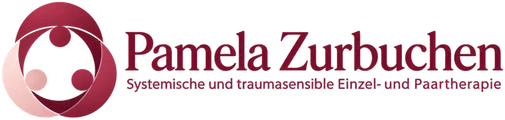
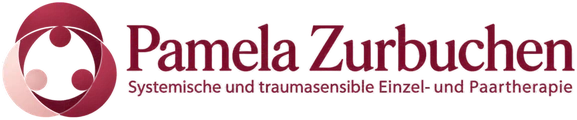
Wortmarke: Zeichen etwas kleiner, passend zur Schrifthöhe
Claude-Session: https://claude.ai/code/session_01TmkWojVVLHKuij4mQYEDNM

Changed region(s): [[0.0, 0.0, 1.0, 1.0], [0.0, 0.85, 0.0297, 0.875]]

diff --git a/public/datenschutz/index.html b/public/datenschutz/index.html
@@ -38,7 +38,7 @@
 <body>
 <a class="skip" href="#inhalt">Zum Inhalt springen</a>
 <header class="top"><div class="wrap top-row">
-  <a class="brand" href="/" aria-label="Pamela Zurbuchen, Startseite"><img class="brand-word" src="/img/wortmarke-120.webp?v=4" srcset="/img/wortmarke-120.webp?v=4 1x, /img/wortmarke-240.webp?v=4 2x" width="505" height="120" alt=""><img class="brand-mark" src="/img/logo-96.webp?v=3" width="96" height="96" alt=""><span class="brand-text"><b>Pamela Zurbuchen</b><small>Systemische und traumasensible Einzel- und Paartherapie</small></span></a>
+  <a class="brand" href="/" aria-label="Pamela Zurbuchen, Startseite"><img class="brand-word" src="/img/wortmarke-120.webp?v=5" srcset="/img/wortmarke-120.webp?v=5 1x, /img/wortmarke-240.webp?v=5 2x" width="577" height="120" alt=""><img class="brand-mark" src="/img/logo-96.webp?v=3" width="96" height="96" alt=""><span class="brand-text"><b>Pamela Zurbuchen</b><small>Systemische und traumasensible Einzel- und Paartherapie</small></span></a>
   <nav class="nav" aria-label="Hauptnavigation"><a href="/angebot/">Angebot</a><a href="/ueber-mich/">Über mich</a><a href="/kurse/">Kurse</a><a href="/preise/">Preise</a><a href="/blog/">Blog</a><a href="/kontakt/">Kontakt</a></nav>
   <a class="btn primary sm" href="/termin/">Termin anfragen</a>
   <a class="flow-close" href="/" aria-label="Anfrage schließen und zur Startseite"><svg viewBox="0 0 20 20" aria-hidden="true"><path d="M5 5l10 10M15 5L5 15"/></svg></a>
@@ -73,7 +73,7 @@
 <p class="rv">Sie haben das Recht auf Auskunft, Berichtigung, Löschung, Einschränkung der Verarbeitung, Datenübertragbarkeit und Widerspruch sowie das Recht, sich bei einer Datenschutz-Aufsichtsbehörde zu beschweren.</p></div></div></section>
 </main>
 <footer class="foot"><div class="wrap">
-  <a class="brand" href="/" aria-label="Pamela Zurbuchen, Startseite"><img class="brand-word" src="/img/wortmarke-120.webp?v=4" srcset="/img/wortmarke-120.webp?v=4 1x, /img/wortmarke-240.webp?v=4 2x" width="505" height="120" alt=""><img class="brand-mark" src="/img/logo-96.webp?v=3" width="96" height="96" alt=""><span class="brand-text"><b>Pamela Zurbuchen</b><small>Systemische und traumasensible Einzel- und Paartherapie</small></span></a>
+  <a class="brand" href="/" aria-label="Pamela Zurbuchen, Startseite"><img class="brand-word" src="/img/wortmarke-120.webp?v=5" srcset="/img/wortmarke-120.webp?v=5 1x, /img/wortmarke-240.webp?v=5 2x" width="577" height="120" alt=""><img class="brand-mark" src="/img/logo-96.webp?v=3" width="96" height="96" alt=""><span class="brand-text"><b>Pamela Zurbuchen</b><small>Systemische und traumasensible Einzel- und Paartherapie</small></span></a>
   <p class="foot-lead">Systemische und traumasensible Begleitung für Einzelne, Paare, Eltern und Jugendliche: in Landsberg am Lech, online und als Walk and Talk.</p>
   <a class="g-badge on-deep" href="/#stimmen"><svg class="g" viewBox="0 0 48 48" aria-hidden="true"><path fill="#EA4335" d="M24 9.500c3.540 0 6.710 1.220 9.210 3.600l6.850-6.850C35.900 2.380 30.470 0 24 0 14.620 0 6.510 5.380 2.560 13.220l7.980 6.190C12.430 13.720 17.740 9.500 24 9.500z"/><path fill="#4285F4" d="M46.980 24.550c0-1.570-.15-3.090-.38-4.550H24v9.020h12.940c-.58 2.960-2.260 5.480-4.780 7.180l7.730 6c4.510-4.180 7.090-10.360 7.090-17.650z"/><path fill="#FBBC05" d="M10.530 28.590c-.48-1.450-.76-2.990-.76-4.590s.27-3.140.76-4.590l-7.980-6.190C.92 16.460 0 20.120 0 24c0 3.880.92 7.540 2.560 10.780l7.970-6.190z"/><path fill="#34A853" d="M24 48c6.480 0 11.930-2.130 15.890-5.810l-7.730-6c-2.150 1.450-4.920 2.300-8.160 2.300-6.260 0-11.570-4.220-13.470-9.910l-7.980 6.190C6.510 42.620 14.620 48 24 48z"/></svg><span><b>Google-Rezensionen</b><small>5,0 von 5 bei 2 Bewertungen</small></span></a>
   <div class="cols">

diff --git a/public/impressum/index.html b/public/impressum/index.html
@@ -38,7 +38,7 @@
 <body>
 <a class="skip" href="#inhalt">Zum Inhalt springen</a>
 <header class="top"><div class="wrap top-row">
-  <a class="brand" href="/" aria-label="Pamela Zurbuchen, Startseite"><img class="brand-word" src="/img/wortmarke-120.webp?v=4" srcset="/img/wortmarke-120.webp?v=4 1x, /img/wortmarke-240.webp?v=4 2x" width="505" height="120" alt=""><img class="brand-mark" src="/img/logo-96.webp?v=3" width="96" height="96" alt=""><span class="brand-text"><b>Pamela Zurbuchen</b><small>Systemische und traumasensible Einzel- und Paartherapie</small></span></a>
+  <a class="brand" href="/" aria-label="Pamela Zurbuchen, Startseite"><img class="brand-word" src="/img/wortmarke-120.webp?v=5" srcset="/img/wortmarke-120.webp?v=5 1x, /img/wortmarke-240.webp?v=5 2x" width="577" height="120" alt=""><img class="brand-mark" src="/img/logo-96.webp?v=3" width="96" height="96" alt=""><span class="brand-text"><b>Pamela Zurbuchen</b><small>Systemische und traumasensible Einzel- und Paartherapie</small></span></a>
   <nav class="nav" aria-label="Hauptnavigation"><a href="/angebot/">Angebot</a><a href="/ueber-mich/">Über mich</a><a href="/kurse/">Kurse</a><a href="/preise/">Preise</a><a href="/blog/">Blog</a><a href="/kontakt/">Kontakt</a></nav>
   <a class="btn primary sm" href="/termin/">Termin anfragen</a>
   <a class="flow-close" href="/" aria-label="Anfrage schließen und zur Startseite"><svg viewBox="0 0 20 20" aria-hidden="true"><path d="M5 5l10 10M15 5L5 15"/></svg></a>
@@ -67,7 +67,7 @@
 <p class="rv">Die Porträts zeigen Pamela Zurbuchen. Landschaftsfoto: Unsplash.</p></div></div></section>
 </main>
 <footer class="foot"><div class="wrap">
-  <a class="brand" href="/" aria-label="Pamela Zurbuchen, Startseite"><img class="brand-word" src="/img/wortmarke-120.webp?v=4" srcset="/img/wortmarke-120.webp?v=4 1x, /img/wortmarke-240.webp?v=4 2x" width="505" height="120" alt=""><img class="brand-mark" src="/img/logo-96.webp?v=3" width="96" height="96" alt=""><span class="brand-text"><b>Pamela Zurbuchen</b><small>Systemische und traumasensible Einzel- und Paartherapie</small></span></a>
+  <a class="brand" href="/" aria-label="Pamela Zurbuchen, Startseite"><img class="brand-word" src="/img/wortmarke-120.webp?v=5" srcset="/img/wortmarke-120.webp?v=5 1x, /img/wortmarke-240.webp?v=5 2x" width="577" height="120" alt=""><img class="brand-mark" src="/img/logo-96.webp?v=3" width="96" height="96" alt=""><span class="brand-text"><b>Pamela Zurbuchen</b><small>Systemische und traumasensible Einzel- und Paartherapie</small></span></a>
   <p class="foot-lead">Systemische und traumasensible Begleitung für Einzelne, Paare, Eltern und Jugendliche: in Landsberg am Lech, online und als Walk and Talk.</p>
   <a class="g-badge on-deep" href="/#stimmen"><svg class="g" viewBox="0 0 48 48" aria-hidden="true"><path fill="#EA4335" d="M24 9.500c3.540 0 6.710 1.220 9.210 3.600l6.850-6.850C35.900 2.380 30.470 0 24 0 14.620 0 6.510 5.380 2.560 13.220l7.980 6.190C12.430 13.720 17.740 9.500 24 9.500z"/><path fill="#4285F4" d="M46.980 24.550c0-1.570-.15-3.090-.38-4.550H24v9.020h12.940c-.58 2.960-2.260 5.480-4.780 7.180l7.730 6c4.510-4.180 7.090-10.360 7.090-17.650z"/><path fill="#FBBC05" d="M10.530 28.590c-.48-1.450-.76-2.990-.76-4.590s.27-3.140.76-4.590l-7.980-6.190C.92 16.460 0 20.120 0 24c0 3.880.92 7.540 2.560 10.780l7.970-6.190z"/><path fill="#34A853" d="M24 48c6.480 0 11.930-2.130 15.890-5.810l-7.730-6c-2.150 1.450-4.920 2.300-8.160 2.300-6.260 0-11.570-4.220-13.470-9.910l-7.980 6.190C6.510 42.620 14.620 48 24 48z"/></svg><span><b>Google-Rezensionen</b><small>5,0 von 5 bei 2 Bewertungen</small></span></a>
   <div class="cols">

diff --git a/public/blog/finde-deinen-weg-als-mama-oder-papa/index.html b/public/blog/finde-deinen-weg-als-mama-oder-papa/index.html
@@ -39,7 +39,7 @@
 <body>
 <a class="skip" href="#inhalt">Zum Inhalt springen</a>
 <header class="top"><div class="wrap top-row">
-  <a class="brand" href="/" aria-label="Pamela Zurbuchen, Startseite"><img class="brand-word" src="/img/wortmarke-120.webp?v=4" srcset="/img/wortmarke-120.webp?v=4 1x, /img/wortmarke-240.webp?v=4 2x" width="505" height="120" alt=""><img class="brand-mark" src="/img/logo-96.webp?v=3" width="96" height="96" alt=""><span class="brand-text"><b>Pamela Zurbuchen</b><small>Systemische und traumasensible Einzel- und Paartherapie</small></span></a>
+  <a class="brand" href="/" aria-label="Pamela Zurbuchen, Startseite"><img class="brand-word" src="/img/wortmarke-120.webp?v=5" srcset="/img/wortmarke-120.webp?v=5 1x, /img/wortmarke-240.webp?v=5 2x" width="577" height="120" alt=""><img class="brand-mark" src="/img/logo-96.webp?v=3" width="96" height="96" alt=""><span class="brand-text"><b>Pamela Zurbuchen</b><small>Systemische und traumasensible Einzel- und Paartherapie</small></span></a>
   <nav class="nav" aria-label="Hauptnavigation"><a href="/angebot/">Angebot</a><a href="/ueber-mich/">Über mich</a><a href="/kurse/">Kurse</a><a href="/preise/">Preise</a><a href="/blog/" aria-current="page">Blog</a><a href="/kontakt/">Kontakt</a></nav>
   <a class="btn primary sm" href="/termin/">Termin anfragen</a>
   <a class="flow-close" href="/" aria-label="Anfrage schließen und zur Startseite"><svg viewBox="0 0 20 20" aria-hidden="true"><path d="M5 5l10 10M15 5L5 15"/></svg></a>
@@ -124,7 +124,7 @@
 </div></section>
 </main>
 <footer class="foot"><div class="wrap">
-  <a class="brand" href="/" aria-label="Pamela Zurbuchen, Startseite"><img class="brand-word" src="/img/wortmarke-120.webp?v=4" srcset="/img/wortmarke-120.webp?v=4 1x, /img/wortmarke-240.webp?v=4 2x" width="505" height="120" alt=""><img class="brand-mark" src="/img/logo-96.webp?v=3" width="96" height="96" alt=""><span class="brand-text"><b>Pamela Zurbuchen</b><small>Systemische und traumasensible Einzel- und Paartherapie</small></span></a>
+  <a class="brand" href="/" aria-label="Pamela Zurbuchen, Startseite"><img class="brand-word" src="/img/wortmarke-120.webp?v=5" srcset="/img/wortmarke-120.webp?v=5 1x, /img/wortmarke-240.webp?v=5 2x" width="577" height="120" alt=""><img class="brand-mark" src="/img/logo-96.webp?v=3" width="96" height="96" alt=""><span class="brand-text"><b>Pamela Zurbuchen</b><small>Systemische und traumasensible Einzel- und Paartherapie</small></span></a>
   <p class="foot-lead">Systemische und traumasensible Begleitung für Einzelne, Paare, Eltern und Jugendliche: in Landsberg am Lech, online und als Walk and Talk.</p>
   <a class="g-badge on-deep" href="/#stimmen"><svg class="g" viewBox="0 0 48 48" aria-hidden="true"><path fill="#EA4335" d="M24 9.500c3.540 0 6.710 1.220 9.210 3.600l6.850-6.850C35.900 2.380 30.470 0 24 0 14.620 0 6.510 5.380 2.560 13.220l7.980 6.190C12.430 13.720 17.740 9.500 24 9.500z"/><path fill="#4285F4" d="M46.980 24.550c0-1.570-.15-3.090-.38-4.550H24v9.020h12.940c-.58 2.960-2.260 5.480-4.780 7.180l7.730 6c4.510-4.180 7.090-10.360 7.090-17.650z"/><path fill="#FBBC05" d="M10.530 28.590c-.48-1.450-.76-2.990-.76-4.590s.27-3.140.76-4.590l-7.980-6.190C.92 16.460 0 20.120 0 24c0 3.880.92 7.540 2.560 10.780l7.970-6.190z"/><path fill="#34A853" d="M24 48c6.480 0 11.930-2.130 15.890-5.810l-7.730-6c-2.150 1.450-4.920 2.300-8.160 2.300-6.260 0-11.570-4.220-13.470-9.910l-7.980 6.190C6.510 42.620 14.620 48 24 48z"/></svg><span><b>Google-Rezensionen</b><small>5,0 von 5 bei 2 Bewertungen</small></span></a>
   <div class="cols">

diff --git a/public/einzeltherapie/index.html b/public/einzeltherapie/index.html
@@ -39,7 +39,7 @@
 <body>
 <a class="skip" href="#inhalt">Zum Inhalt springen</a>
 <header class="top"><div class="wrap top-row">
-  <a class="brand" href="/" aria-label="Pamela Zurbuchen, Startseite"><img class="brand-word" src="/img/wortmarke-120.webp?v=4" srcset="/img/wortmarke-120.webp?v=4 1x, /img/wortmarke-240.webp?v=4 2x" width="505" height="120" alt=""><img class="brand-mark" src="/img/logo-96.webp?v=3" width="96" height="96" alt=""><span class="brand-text"><b>Pamela Zurbuchen</b><small>Systemische und traumasensible Einzel- und Paartherapie</small></span></a>
+  <a class="brand" href="/" aria-label="Pamela Zurbuchen, Startseite"><img class="brand-word" src="/img/wortmarke-120.webp?v=5" srcset="/img/wortmarke-120.webp?v=5 1x, /img/wortmarke-240.webp?v=5 2x" width="577" height="120" alt=""><img class="brand-mark" src="/img/logo-96.webp?v=3" width="96" height="96" alt=""><span class="brand-text"><b>Pamela Zurbuchen</b><small>Systemische und traumasensible Einzel- und Paartherapie</small></span></a>
   <nav class="nav" aria-label="Hauptnavigation"><a href="/angebot/" aria-current="page">Angebot</a><a href="/ueber-mich/">Über mich</a><a href="/kurse/">Kurse</a><a href="/preise/">Preise</a><a href="/blog/">Blog</a><a href="/kontakt/">Kontakt</a></nav>
   <a class="btn primary sm" href="/termin/">Termin anfragen</a>
   <a class="flow-close" href="/" aria-label="Anfrage schließen und zur Startseite"><svg viewBox="0 0 20 20" aria-hidden="true"><path d="M5 5l10 10M15 5L5 15"/></svg></a>
@@ -105,7 +105,7 @@
 </div></section>
 </main>
 <footer class="foot"><div class="wrap">
-  <a class="brand" href="/" aria-label="Pamela Zurbuchen, Startseite"><img class="brand-word" src="/img/wortmarke-120.webp?v=4" srcset="/img/wortmarke-120.webp?v=4 1x, /img/wortmarke-240.webp?v=4 2x" width="505" height="120" alt=""><img class="brand-mark" src="/img/logo-96.webp?v=3" width="96" height="96" alt=""><span class="brand-text"><b>Pamela Zurbuchen</b><small>Systemische und traumasensible Einzel- und Paartherapie</small></span></a>
+  <a class="brand" href="/" aria-label="Pamela Zurbuchen, Startseite"><img class="brand-word" src="/img/wortmarke-120.webp?v=5" srcset="/img/wortmarke-120.webp?v=5 1x, /img/wortmarke-240.webp?v=5 2x" width="577" height="120" alt=""><img class="brand-mark" src="/img/logo-96.webp?v=3" width="96" height="96" alt=""><span class="brand-text"><b>Pamela Zurbuchen</b><small>Systemische und traumasensible Einzel- und Paartherapie</small></span></a>
   <p class="foot-lead">Systemische und traumasensible Begleitung für Einzelne, Paare, Eltern und Jugendliche: in Landsberg am Lech, online und als Walk and Talk.</p>
   <a class="g-badge on-deep" href="/#stimmen"><svg class="g" viewBox="0 0 48 48" aria-hidden="true"><path fill="#EA4335" d="M24 9.500c3.540 0 6.710 1.220 9.210 3.600l6.850-6.850C35.900 2.380 30.470 0 24 0 14.620 0 6.510 5.380 2.560 13.220l7.980 6.190C12.430 13.720 17.740 9.500 24 9.500z"/><path fill="#4285F4" d="M46.980 24.550c0-1.570-.15-3.090-.38-4.550H24v9.020h12.940c-.58 2.960-2.260 5.480-4.780 7.180l7.730 6c4.510-4.180 7.090-10.360 7.090-17.650z"/><path fill="#FBBC05" d="M10.530 28.590c-.48-1.450-.76-2.990-.76-4.590s.27-3.140.76-4.590l-7.980-6.190C.92 16.460 0 20.120 0 24c0 3.880.92 7.540 2.560 10.780l7.970-6.190z"/><path fill="#34A853" d="M24 48c6.480 0 11.930-2.130 15.890-5.810l-7.730-6c-2.150 1.450-4.920 2.300-8.160 2.300-6.260 0-11.570-4.220-13.470-9.910l-7.980 6.190C6.510 42.620 14.620 48 24 48z"/></svg><span><b>Google-Rezensionen</b><small>5,0 von 5 bei 2 Bewertungen</small></span></a>
   <div class="cols">

diff --git a/public/erziehungsberatung/index.html b/public/erziehungsberatung/index.html
@@ -39,7 +39,7 @@
 <body>
 <a class="skip" href="#inhalt">Zum Inhalt springen</a>
 <header class="top"><div class="wrap top-row">
-  <a class="brand" href="/" aria-label="Pamela Zurbuchen, Startseite"><img class="brand-word" src="/img/wortmarke-120.webp?v=4" srcset="/img/wortmarke-120.webp?v=4 1x, /img/wortmarke-240.webp?v=4 2x" width="505" height="120" alt=""><img class="brand-mark" src="/img/logo-96.webp?v=3" width="96" height="96" alt=""><span class="brand-text"><b>Pamela Zurbuchen</b><small>Systemische und traumasensible Einzel- und Paartherapie</small></span></a>
+  <a class="brand" href="/" aria-label="Pamela Zurbuchen, Startseite"><img class="brand-word" src="/img/wortmarke-120.webp?v=5" srcset="/img/wortmarke-120.webp?v=5 1x, /img/wortmarke-240.webp?v=5 2x" width="577" height="120" alt=""><img class="brand-mark" src="/img/logo-96.webp?v=3" width="96" height="96" alt=""><span class="brand-text"><b>Pamela Zurbuchen</b><small>Systemische und traumasensible Einzel- und Paartherapie</small></span></a>
   <nav class="nav" aria-label="Hauptnavigation"><a href="/angebot/" aria-current="page">Angebot</a><a href="/ueber-mich/">Über mich</a><a href="/kurse/">Kurse</a><a href="/preise/">Preise</a><a href="/blog/">Blog</a><a href="/kontakt/">Kontakt</a></nav>
   <a class="btn primary sm" href="/termin/">Termin anfragen</a>
   <a class="flow-close" href="/" aria-label="Anfrage schließen und zur Startseite"><svg viewBox="0 0 20 20" aria-hidden="true"><path d="M5 5l10 10M15 5L5 15"/></svg></a>
@@ -104,7 +104,7 @@
 </div></section>
 </main>
 <footer class="foot"><div class="wrap">
-  <a class="brand" href="/" aria-label="Pamela Zurbuchen, Startseite"><img class="brand-word" src="/img/wortmarke-120.webp?v=4" srcset="/img/wortmarke-120.webp?v=4 1x, /img/wortmarke-240.webp?v=4 2x" width="505" height="120" alt=""><img class="brand-mark" src="/img/logo-96.webp?v=3" width="96" height="96" alt=""><span class="brand-text"><b>Pamela Zurbuchen</b><small>Systemische und traumasensible Einzel- und Paartherapie</small></span></a>
+  <a class="brand" href="/" aria-label="Pamela Zurbuchen, Startseite"><img class="brand-word" src="/img/wortmarke-120.webp?v=5" srcset="/img/wortmarke-120.webp?v=5 1x, /img/wortmarke-240.webp?v=5 2x" width="577" height="120" alt=""><img class="brand-mark" src="/img/logo-96.webp?v=3" width="96" height="96" alt=""><span class="brand-text"><b>Pamela Zurbuchen</b><small>Systemische und traumasensible Einzel- und Paartherapie</small></span></a>
   <p class="foot-lead">Systemische und traumasensible Begleitung für Einzelne, Paare, Eltern und Jugendliche: in Landsberg am Lech, online und als Walk and Talk.</p>
   <a class="g-badge on-deep" href="/#stimmen"><svg class="g" viewBox="0 0 48 48" aria-hidden="true"><path fill="#EA4335" d="M24 9.500c3.540 0 6.710 1.220 9.210 3.600l6.850-6.850C35.900 2.380 30.470 0 24 0 14.620 0 6.510 5.380 2.560 13.220l7.980 6.190C12.430 13.720 17.740 9.500 24 9.500z"/><path fill="#4285F4" d="M46.980 24.550c0-1.570-.15-3.090-.38-4.550H24v9.020h12.940c-.58 2.960-2.260 5.480-4.780 7.180l7.730 6c4.510-4.180 7.090-10.360 7.090-17.650z"/><path fill="#FBBC05" d="M10.530 28.590c-.48-1.450-.76-2.990-.76-4.590s.27-3.140.76-4.590l-7.980-6.190C.92 16.460 0 20.120 0 24c0 3.880.92 7.540 2.560 10.780l7.970-6.190z"/><path fill="#34A853" d="M24 48c6.480 0 11.930-2.130 15.890-5.810l-7.730-6c-2.150 1.450-4.920 2.300-8.160 2.300-6.260 0-11.570-4.220-13.470-9.910l-7.980 6.190C6.510 42.620 14.620 48 24 48z"/></svg><span><b>Google-Rezensionen</b><small>5,0 von 5 bei 2 Bewertungen</small></span></a>
   <div class="cols">

diff --git a/public/jugendcoaching/index.html b/public/jugendcoaching/index.html
@@ -39,7 +39,7 @@
 <body>
 <a class="skip" href="#inhalt">Zum Inhalt springen</a>
 <header class="top"><div class="wrap top-row">
-  <a class="brand" href="/" aria-label="Pamela Zurbuchen, Startseite"><img class="brand-word" src="/img/wortmarke-120.webp?v=4" srcset="/img/wortmarke-120.webp?v=4 1x, /img/wortmarke-240.webp?v=4 2x" width="505" height="120" alt=""><img class="brand-mark" src="/img/logo-96.webp?v=3" width="96" height="96" alt=""><span class="brand-text"><b>Pamela Zurbuchen</b><small>Systemische und traumasensible Einzel- und Paartherapie</small></span></a>
+  <a class="brand" href="/" aria-label="Pamela Zurbuchen, Startseite"><img class="brand-word" src="/img/wortmarke-120.webp?v=5" srcset="/img/wortmarke-120.webp?v=5 1x, /img/wortmarke-240.webp?v=5 2x" width="577" height="120" alt=""><img class="brand-mark" src="/img/logo-96.webp?v=3" width="96" height="96" alt=""><span class="brand-text"><b>Pamela Zurbuchen</b><small>Systemische und traumasensible Einzel- und Paartherapie</small></span></a>
   <nav class="nav" aria-label="Hauptnavigation"><a href="/angebot/" aria-current="page">Angebot</a><a href="/ueber-mich/">Über mich</a><a href="/kurse/">Kurse</a><a href="/preise/">Preise</a><a href="/blog/">Blog</a><a href="/kontakt/">Kontakt</a></nav>
   <a class="btn primary sm" href="/termin/">Termin anfragen</a>
   <a class="flow-close" href="/" aria-label="Anfrage schließen und zur Startseite"><svg viewBox="0 0 20 20" aria-hidden="true"><path d="M5 5l10 10M15 5L5 15"/></svg></a>
@@ -105,7 +105,7 @@
 </div></section>
 </main>
 <footer class="foot"><div class="wrap">
-  <a class="brand" href="/" aria-label="Pamela Zurbuchen, Startseite"><img class="brand-word" src="/img/wortmarke-120.webp?v=4" srcset="/img/wortmarke-120.webp?v=4 1x, /img/wortmarke-240.webp?v=4 2x" width="505" height="120" alt=""><img class="brand-mark" src="/img/logo-96.webp?v=3" width="96" height="96" alt=""><span class="brand-text"><b>Pamela Zurbuchen</b><small>Systemische und traumasensible Einzel- und Paartherapie</small></span></a>
+  <a class="brand" href="/" aria-label="Pamela Zurbuchen, Startseite"><img class="brand-word" src="/img/wortmarke-120.webp?v=5" srcset="/img/wortmarke-120.webp?v=5 1x, /img/wortmarke-240.webp?v=5 2x" width="577" height="120" alt=""><img class="brand-mark" src="/img/logo-96.webp?v=3" width="96" height="96" alt=""><span class="brand-text"><b>Pamela Zurbuchen</b><small>Systemische und traumasensible Einzel- und Paartherapie</small></span></a>
   <p class="foot-lead">Systemische und traumasensible Begleitung für Einzelne, Paare, Eltern und Jugendliche: in Landsberg am Lech, online und als Walk and Talk.</p>
   <a class="g-badge on-deep" href="/#stimmen"><svg class="g" viewBox="0 0 48 48" aria-hidden="true"><path fill="#EA4335" d="M24 9.500c3.540 0 6.710 1.220 9.210 3.600l6.850-6.850C35.900 2.380 30.470 0 24 0 14.620 0 6.510 5.380 2.560 13.220l7.980 6.190C12.430 13.720 17.740 9.500 24 9.500z"/><path fill="#4285F4" d="M46.980 24.550c0-1.570-.15-3.090-.38-4.550H24v9.020h12.940c-.58 2.960-2.260 5.480-4.780 7.180l7.730 6c4.510-4.180 7.090-10.360 7.090-17.650z"/><path fill="#FBBC05" d="M10.530 28.590c-.48-1.450-.76-2.990-.76-4.590s.27-3.140.76-4.590l-7.980-6.190C.92 16.460 0 20.120 0 24c0 3.880.92 7.540 2.560 10.780l7.970-6.190z"/><path fill="#34A853" d="M24 48c6.480 0 11.930-2.130 15.890-5.810l-7.730-6c-2.150 1.450-4.920 2.300-8.160 2.300-6.260 0-11.570-4.220-13.470-9.910l-7.980 6.190C6.510 42.620 14.620 48 24 48z"/></svg><span><b>Google-Rezensionen</b><small>5,0 von 5 bei 2 Bewertungen</small></span></a>
   <div class="cols">

diff --git a/public/kommunikationstraining/index.html b/public/kommunikationstraining/index.html
@@ -39,7 +39,7 @@
 <body>
 <a class="skip" href="#inhalt">Zum Inhalt springen</a>
 <header class="top"><div class="wrap top-row">
-  <a class="brand" href="/" aria-label="Pamela Zurbuchen, Startseite"><img class="brand-word" src="/img/wortmarke-120.webp?v=4" srcset="/img/wortmarke-120.webp?v=4 1x, /img/wortmarke-240.webp?v=4 2x" width="505" height="120" alt=""><img class="brand-mark" src="/img/logo-96.webp?v=3" width="96" height="96" alt=""><span class="brand-text"><b>Pamela Zurbuchen</b><small>Systemische und traumasensible Einzel- und Paartherapie</small></span></a>
+  <a class="brand" href="/" aria-label="Pamela Zurbuchen, Startseite"><img class="brand-word" src="/img/wortmarke-120.webp?v=5" srcset="/img/wortmarke-120.webp?v=5 1x, /img/wortmarke-240.webp?v=5 2x" width="577" height="120" alt=""><img class="brand-mark" src="/img/logo-96.webp?v=3" width="96" height="96" alt=""><span class="brand-text"><b>Pamela Zurbuchen</b><small>Systemische und traumasensible Einzel- und Paartherapie</small></span></a>
   <nav class="nav" aria-label="Hauptnavigation"><a href="/angebot/" aria-current="page">Angebot</a><a href="/ueber-mich/">Über mich</a><a href="/kurse/">Kurse</a><a href="/preise/">Preise</a><a href="/blog/">Blog</a><a href="/kontakt/">Kontakt</a></nav>
   <a class="btn primary sm" href="/termin/">Termin anfragen</a>
   <a class="flow-close" href="/" aria-label="Anfrage schließen und zur Startseite"><svg viewBox="0 0 20 20" aria-hidden="true"><path d="M5 5l10 10M15 5L5 15"/></svg></a>
@@ -104,7 +104,7 @@
 </div></section>
 </main>
 <footer class="foot"><div class="wrap">
-  <a class="brand" href="/" aria-label="Pamela Zurbuchen, Startseite"><img class="brand-word" src="/img/wortmarke-120.webp?v=4" srcset="/img/wortmarke-120.webp?v=4 1x, /img/wortmarke-240.webp?v=4 2x" width="505" height="120" alt=""><img class="brand-mark" src="/img/logo-96.webp?v=3" width="96" height="96" alt=""><span class="brand-text"><b>Pamela Zurbuchen</b><small>Systemische und traumasensible Einzel- und Paartherapie</small></span></a>
+  <a class="brand" href="/" aria-label="Pamela Zurbuchen, Startseite"><img class="brand-word" src="/img/wortmarke-120.webp?v=5" srcset="/img/wortmarke-120.webp?v=5 1x, /img/wortmarke-240.webp?v=5 2x" width="577" height="120" alt=""><img class="brand-mark" src="/img/logo-96.webp?v=3" width="96" height="96" alt=""><span class="brand-text"><b>Pamela Zurbuchen</b><small>Systemische und traumasensible Einzel- und Paartherapie</small></span></a>
   <p class="foot-lead">Systemische und traumasensible Begleitung für Einzelne, Paare, Eltern und Jugendliche: in Landsberg am Lech, online und als Walk and Talk.</p>
   <a class="g-badge on-deep" href="/#stimmen"><svg class="g" viewBox="0 0 48 48" aria-hidden="true"><path fill="#EA4335" d="M24 9.500c3.540 0 6.710 1.220 9.210 3.600l6.850-6.850C35.900 2.380 30.470 0 24 0 14.620 0 6.510 5.380 2.560 13.220l7.980 6.190C12.430 13.720 17.740 9.500 24 9.500z"/><path fill="#4285F4" d="M46.980 24.550c0-1.570-.15-3.090-.38-4.550H24v9.020h12.940c-.58 2.960-2.260 5.480-4.780 7.180l7.730 6c4.510-4.180 7.090-10.360 7.090-17.650z"/><path fill="#FBBC05" d="M10.530 28.590c-.48-1.450-.76-2.990-.76-4.590s.27-3.140.76-4.590l-7.980-6.190C.92 16.460 0 20.120 0 24c0 3.880.92 7.540 2.560 10.780l7.970-6.190z"/><path fill="#34A853" d="M24 48c6.480 0 11.930-2.130 15.890-5.810l-7.730-6c-2.150 1.450-4.920 2.300-8.160 2.300-6.260 0-11.570-4.220-13.470-9.910l-7.980 6.190C6.510 42.620 14.620 48 24 48z"/></svg><span><b>Google-Rezensionen</b><small>5,0 von 5 bei 2 Bewertungen</small></span></a>
   <div class="cols">

diff --git a/public/kontakt/index.html b/public/kontakt/index.html
@@ -39,7 +39,7 @@
 <body>
 <a class="skip" href="#inhalt">Zum Inhalt springen</a>
 <header class="top"><div class="wrap top-row">
-  <a class="brand" href="/" aria-label="Pamela Zurbuchen, Startseite"><img class="brand-word" src="/img/wortmarke-120.webp?v=4" srcset="/img/wortmarke-120.webp?v=4 1x, /img/wortmarke-240.webp?v=4 2x" width="505" height="120" alt=""><img class="brand-mark" src="/img/logo-96.webp?v=3" width="96" height="96" alt=""><span class="brand-text"><b>Pamela Zurbuchen</b><small>Systemische und traumasensible Einzel- und Paartherapie</small></span></a>
+  <a class="brand" href="/" aria-label="Pamela Zurbuchen, Startseite"><img class="brand-word" src="/img/wortmarke-120.webp?v=5" srcset="/img/wortmarke-120.webp?v=5 1x, /img/wortmarke-240.webp?v=5 2x" width="577" height="120" alt=""><img class="brand-mark" src="/img/logo-96.webp?v=3" width="96" height="96" alt=""><span class="brand-text"><b>Pamela Zurbuchen</b><small>Systemische und traumasensible Einzel- und Paartherapie</small></span></a>
   <nav class="nav" aria-label="Hauptnavigation"><a href="/angebot/">Angebot</a><a href="/ueber-mich/">Über mich</a><a href="/kurse/">Kurse</a><a href="/preise/">Preise</a><a href="/blog/">Blog</a><a href="/kontakt/" aria-current="page">Kontakt</a></nav>
   <a class="btn primary sm" href="/termin/">Termin anfragen</a>
   <a class="flow-close" href="/" aria-label="Anfrage schließen und zur Startseite"><svg viewBox="0 0 20 20" aria-hidden="true"><path d="M5 5l10 10M15 5L5 15"/></svg></a>
@@ -104,7 +104,7 @@
 </div></section>
 </main>
 <footer class="foot"><div class="wrap">
-  <a class="brand" href="/" aria-label="Pamela Zurbuchen, Startseite"><img class="brand-word" src="/img/wortmarke-120.webp?v=4" srcset="/img/wortmarke-120.webp?v=4 1x, /img/wortmarke-240.webp?v=4 2x" width="505" height="120" alt=""><img class="brand-mark" src="/img/logo-96.webp?v=3" width="96" height="96" alt=""><span class="brand-text"><b>Pamela Zurbuchen</b><small>Systemische und traumasensible Einzel- und Paartherapie</small></span></a>
+  <a class="brand" href="/" aria-label="Pamela Zurbuchen, Startseite"><img class="brand-word" src="/img/wortmarke-120.webp?v=5" srcset="/img/wortmarke-120.webp?v=5 1x, /img/wortmarke-240.webp?v=5 2x" width="577" height="120" alt=""><img class="brand-mark" src="/img/logo-96.webp?v=3" width="96" height="96" alt=""><span class="brand-text"><b>Pamela Zurbuchen</b><small>Systemische und traumasensible Einzel- und Paartherapie</small></span></a>
   <p class="foot-lead">Systemische und traumasensible Begleitung für Einzelne, Paare, Eltern und Jugendliche: in Landsberg am Lech, online und als Walk and Talk.</p>
   <a class="g-badge on-deep" href="/#stimmen"><svg class="g" viewBox="0 0 48 48" aria-hidden="true"><path fill="#EA4335" d="M24 9.500c3.540 0 6.710 1.220 9.210 3.600l6.850-6.850C35.900 2.380 30.470 0 24 0 14.620 0 6.510 5.380 2.560 13.220l7.980 6.190C12.430 13.720 17.740 9.500 24 9.500z"/><path fill="#4285F4" d="M46.980 24.550c0-1.570-.15-3.090-.38-4.550H24v9.020h12.940c-.58 2.960-2.260 5.480-4.780 7.180l7.730 6c4.510-4.180 7.090-10.360 7.090-17.650z"/><path fill="#FBBC05" d="M10.530 28.590c-.48-1.450-.76-2.990-.76-4.590s.27-3.140.76-4.590l-7.980-6.190C.92 16.460 0 20.120 0 24c0 3.880.92 7.540 2.560 10.780l7.970-6.190z"/><path fill="#34A853" d="M24 48c6.480 0 11.930-2.130 15.890-5.810l-7.730-6c-2.150 1.450-4.920 2.300-8.160 2.300-6.260 0-11.570-4.220-13.470-9.910l-7.980 6.190C6.510 42.620 14.620 48 24 48z"/></svg><span><b>Google-Rezensionen</b><small>5,0 von 5 bei 2 Bewertungen</small></span></a>
   <div class="cols">

diff --git a/public/paartherapie/index.html b/public/paartherapie/index.html
@@ -39,7 +39,7 @@
 <body>
 <a class="skip" href="#inhalt">Zum Inhalt springen</a>
 <header class="top"><div class="wrap top-row">
-  <a class="brand" href="/" aria-label="Pamela Zurbuchen, Startseite"><img class="brand-word" src="/img/wortmarke-120.webp?v=4" srcset="/img/wortmarke-120.webp?v=4 1x, /img/wortmarke-240.webp?v=4 2x" width="505" height="120" alt=""><img class="brand-mark" src="/img/logo-96.webp?v=3" width="96" height="96" alt=""><span class="brand-text"><b>Pamela Zurbuchen</b><small>Systemische und traumasensible Einzel- und Paartherapie</small></span></a>
+  <a class="brand" href="/" aria-label="Pamela Zurbuchen, Startseite"><img class="brand-word" src="/img/wortmarke-120.webp?v=5" srcset="/img/wortmarke-120.webp?v=5 1x, /img/wortmarke-240.webp?v=5 2x" width="577" height="120" alt=""><img class="brand-mark" src="/img/logo-96.webp?v=3" width="96" height="96" alt=""><span class="brand-text"><b>Pamela Zurbuchen</b><small>Systemische und traumasensible Einzel- und Paartherapie</small></span></a>
   <nav class="nav" aria-label="Hauptnavigation"><a href="/angebot/" aria-current="page">Angebot</a><a href="/ueber-mich/">Über mich</a><a href="/kurse/">Kurse</a><a href="/preise/">Preise</a><a href="/blog/">Blog</a><a href="/kontakt/">Kontakt</a></nav>
   <a class="btn primary sm" href="/termin/">Termin anfragen</a>
   <a class="flow-close" href="/" aria-label="Anfrage schließen und zur Startseite"><svg viewBox="0 0 20 20" aria-hidden="true"><path d="M5 5l10 10M15 5L5 15"/></svg></a>
@@ -101,7 +101,7 @@
 </div></section>
 </main>
 <footer class="foot"><div class="wrap">
-  <a class="brand" href="/" aria-label="Pamela Zurbuchen, Startseite"><img class="brand-word" src="/img/wortmarke-120.webp?v=4" srcset="/img/wortmarke-120.webp?v=4 1x, /img/wortmarke-240.webp?v=4 2x" width="505" height="120" alt=""><img class="brand-mark" src="/img/logo-96.webp?v=3" width="96" height="96" alt=""><span class="brand-text"><b>Pamela Zurbuchen</b><small>Systemische und traumasensible Einzel- und Paartherapie</small></span></a>
+  <a class="brand" href="/" aria-label="Pamela Zurbuchen, Startseite"><img class="brand-word" src="/img/wortmarke-120.webp?v=5" srcset="/img/wortmarke-120.webp?v=5 1x, /img/wortmarke-240.webp?v=5 2x" width="577" height="120" alt=""><img class="brand-mark" src="/img/logo-96.webp?v=3" width="96" height="96" alt=""><span class="brand-text"><b>Pamela Zurbuchen</b><small>Systemische und traumasensible Einzel- und Paartherapie</small></span></a>
   <p class="foot-lead">Systemische und traumasensible Begleitung für Einzelne, Paare, Eltern und Jugendliche: in Landsberg am Lech, online und als Walk and Talk.</p>
   <a class="g-badge on-deep" href="/#stimmen"><svg class="g" viewBox="0 0 48 48" aria-hidden="true"><path fill="#EA4335" d="M24 9.500c3.540 0 6.710 1.220 9.210 3.600l6.850-6.850C35.900 2.380 30.470 0 24 0 14.620 0 6.510 5.380 2.560 13.220l7.980 6.190C12.430 13.720 17.740 9.500 24 9.500z"/><path fill="#4285F4" d="M46.980 24.550c0-1.570-.15-3.090-.38-4.550H24v9.020h12.940c-.58 2.960-2.260 5.480-4.780 7.180l7.730 6c4.510-4.180 7.090-10.360 7.090-17.650z"/><path fill="#FBBC05" d="M10.530 28.590c-.48-1.450-.76-2.990-.76-4.590s.27-3.140.76-4.590l-7.980-6.190C.92 16.460 0 20.120 0 24c0 3.880.92 7.540 2.560 10.780l7.970-6.190z"/><path fill="#34A853" d="M24 48c6.480 0 11.930-2.130 15.890-5.810l-7.730-6c-2.150 1.450-4.920 2.300-8.160 2.300-6.260 0-11.570-4.220-13.470-9.910l-7.980 6.190C6.510 42.620 14.620 48 24 48z"/></svg><span><b>Google-Rezensionen</b><small>5,0 von 5 bei 2 Bewertungen</small></span></a>
   <div class="cols">

diff --git a/public/vortraege-und-schulungen/index.html b/public/vortraege-und-schulungen/index.html
@@ -39,7 +39,7 @@
 <body>
 <a class="skip" href="#inhalt">Zum Inhalt springen</a>
 <header class="top"><div class="wrap top-row">
-  <a class="brand" href="/" aria-label="Pamela Zurbuchen, Startseite"><img class="brand-word" src="/img/wortmarke-120.webp?v=4" srcset="/img/wortmarke-120.webp?v=4 1x, /img/wortmarke-240.webp?v=4 2x" width="505" height="120" alt=""><img class="brand-mark" src="/img/logo-96.webp?v=3" width="96" height="96" alt=""><span class="brand-text"><b>Pamela Zurbuchen</b><small>Systemische und traumasensible Einzel- und Paartherapie</small></span></a>
+  <a class="brand" href="/" aria-label="Pamela Zurbuchen, Startseite"><img class="brand-word" src="/img/wortmarke-120.webp?v=5" srcset="/img/wortmarke-120.webp?v=5 1x, /img/wortmarke-240.webp?v=5 2x" width="577" height="120" alt=""><img class="brand-mark" src="/img/logo-96.webp?v=3" width="96" height="96" alt=""><span class="brand-text"><b>Pamela Zurbuchen</b><small>Systemische und traumasensible Einzel- und Paartherapie</small></span></a>
   <nav class="nav" aria-label="Hauptnavigation"><a href="/angebot/" aria-current="page">Angebot</a><a href="/ueber-mich/">Über mich</a><a href="/kurse/">Kurse</a><a href="/preise/">Preise</a><a href="/blog/">Blog</a><a href="/kontakt/">Kontakt</a></nav>
   <a class="btn primary sm" href="/termin/">Termin anfragen</a>
   <a class="flow-close" href="/" aria-label="Anfrage schließen und zur Startseite"><svg viewBox="0 0 20 20" aria-hidden="true"><path d="M5 5l10 10M15 5L5 15"/></svg></a>
@@ -103,7 +103,7 @@
 </div></section>
 </main>
 <footer class="foot"><div class="wrap">
-  <a class="brand" href="/" aria-label="Pamela Zurbuchen, Startseite"><img class="brand-word" src="/img/wortmarke-120.webp?v=4" srcset="/img/wortmarke-120.webp?v=4 1x, /img/wortmarke-240.webp?v=4 2x" width="505" height="120" alt=""><img class="brand-mark" src="/img/logo-96.webp?v=3" width="96" height="96" alt=""><span class="brand-text"><b>Pamela Zurbuchen</b><small>Systemische und traumasensible Einzel- und Paartherapie</small></span></a>
+  <a class="brand" href="/" aria-label="Pamela Zurbuchen, Startseite"><img class="brand-word" src="/img/wortmarke-120.webp?v=5" srcset="/img/wortmarke-120.webp?v=5 1x, /img/wortmarke-240.webp?v=5 2x" width="577" height="120" alt=""><img class="brand-mark" src="/img/logo-96.webp?v=3" width="96" height="96" alt=""><span class="brand-text"><b>Pamela Zurbuchen</b><small>Systemische und traumasensible Einzel- und Paartherapie</small></span></a>
   <p class="foot-lead">Systemische und traumasensible Begleitung für Einzelne, Paare, Eltern und Jugendliche: in Landsberg am Lech, online und als Walk and Talk.</p>
   <a class="g-badge on-deep" href="/#stimmen"><svg class="g" viewBox="0 0 48 48" aria-hidden="true"><path fill="#EA4335" d="M24 9.500c3.540 0 6.710 1.220 9.210 3.600l6.850-6.850C35.900 2.380 30.470 0 24 0 14.620 0 6.510 5.380 2.560 13.220l7.980 6.190C12.430 13.720 17.740 9.500 24 9.500z"/><path fill="#4285F4" d="M46.980 24.550c0-1.570-.15-3.090-.38-4.550H24v9.020h12.940c-.58 2.960-2.260 5.480-4.780 7.180l7.730 6c4.510-4.180 7.090-10.360 7.090-17.650z"/><path fill="#FBBC05" d="M10.530 28.590c-.48-1.450-.76-2.990-.76-4.590s.27-3.140.76-4.590l-7.980-6.190C.92 16.460 0 20.120 0 24c0 3.880.92 7.540 2.560 10.780l7.970-6.190z"/><path fill="#34A853" d="M24 48c6.480 0 11.930-2.130 15.890-5.810l-7.730-6c-2.150 1.450-4.920 2.300-8.160 2.300-6.260 0-11.570-4.220-13.470-9.910l-7.980 6.190C6.510 42.620 14.620 48 24 48z"/></svg><span><b>Google-Rezensionen</b><small>5,0 von 5 bei 2 Bewertungen</small></span></a>
   <div class="cols">

diff --git a/public/walk-and-talk/index.html b/public/walk-and-talk/index.html
@@ -39,7 +39,7 @@
 <body>
 <a class="skip" href="#inhalt">Zum Inhalt springen</a>
 <header class="top"><div class="wrap top-row">
-  <a class="brand" href="/" aria-label="Pamela Zurbuchen, Startseite"><img class="brand-word" src="/img/wortmarke-120.webp?v=4" srcset="/img/wortmarke-120.webp?v=4 1x, /img/wortmarke-240.webp?v=4 2x" width="505" height="120" alt=""><img class="brand-mark" src="/img/logo-96.webp?v=3" width="96" height="96" alt=""><span class="brand-text"><b>Pamela Zurbuchen</b><small>Systemische und traumasensible Einzel- und Paartherapie</small></span></a>
+  <a class="brand" href="/" aria-label="Pamela Zurbuchen, Startseite"><img class="brand-word" src="/img/wortmarke-120.webp?v=5" srcset="/img/wortmarke-120.webp?v=5 1x, /img/wortmarke-240.webp?v=5 2x" width="577" height="120" alt=""><img class="brand-mark" src="/img/logo-96.webp?v=3" width="96" height="96" alt=""><span class="brand-text"><b>Pamela Zurbuchen</b><small>Systemische und traumasensible Einzel- und Paartherapie</small></span></a>
   <nav class="nav" aria-label="Hauptnavigation"><a href="/angebot/" aria-current="page">Angebot</a><a href="/ueber-mich/">Über mich</a><a href="/kurse/">Kurse</a><a href="/preise/">Preise</a><a href="/blog/">Blog</a><a href="/kontakt/">Kontakt</a></nav>
   <a class="btn primary sm" href="/termin/">Termin anfragen</a>
   <a class="flow-close" href="/" aria-label="Anfrage schließen und zur Startseite"><svg viewBox="0 0 20 20" aria-hidden="true"><path d="M5 5l10 10M15 5L5 15"/></svg></a>
@@ -100,7 +100,7 @@
 </div></section>
 </main>
 <footer class="foot"><div class="wrap">
-  <a class="brand" href="/" aria-label="Pamela Zurbuchen, Startseite"><img class="brand-word" src="/img/wortmarke-120.webp?v=4" srcset="/img/wortmarke-120.webp?v=4 1x, /img/wortmarke-240.webp?v=4 2x" width="505" height="120" alt=""><img class="brand-mark" src="/img/logo-96.webp?v=3" width="96" height="96" alt=""><span class="brand-text"><b>Pamela Zurbuchen</b><small>Systemische und traumasensible Einzel- und Paartherapie</small></span></a>
+  <a class="brand" href="/" aria-label="Pamela Zurbuchen, Startseite"><img class="brand-word" src="/img/wortmarke-120.webp?v=5" srcset="/img/wortmarke-120.webp?v=5 1x, /img/wortmarke-240.webp?v=5 2x" width="577" height="120" alt=""><img class="brand-mark" src="/img/logo-96.webp?v=3" width="96" height="96" alt=""><span class="brand-text"><b>Pamela Zurbuchen</b><small>Systemische und traumasensible Einzel- und Paartherapie</small></span></a>
   <p class="foot-lead">Systemische und traumasensible Begleitung für Einzelne, Paare, Eltern und Jugendliche: in Landsberg am Lech, online und als Walk and Talk.</p>
   <a class="g-badge on-deep" href="/#stimmen"><svg class="g" viewBox="0 0 48 48" aria-hidden="true"><path fill="#EA4335" d="M24 9.500c3.540 0 6.710 1.220 9.210 3.600l6.850-6.850C35.900 2.380 30.470 0 24 0 14.620 0 6.510 5.380 2.560 13.220l7.980 6.190C12.430 13.720 17.740 9.500 24 9.500z"/><path fill="#4285F4" d="M46.980 24.550c0-1.570-.15-3.090-.38-4.550H24v9.020h12.940c-.58 2.960-2.260 5.480-4.780 7.180l7.730 6c4.510-4.180 7.090-10.360 7.090-17.650z"/><path fill="#FBBC05" d="M10.530 28.590c-.48-1.450-.76-2.990-.76-4.590s.27-3.140.76-4.590l-7.980-6.190C.92 16.460 0 20.120 0 24c0 3.880.92 7.540 2.560 10.780l7.970-6.190z"/><path fill="#34A853" d="M24 48c6.480 0 11.930-2.130 15.890-5.810l-7.730-6c-2.150 1.450-4.920 2.300-8.160 2.300-6.260 0-11.570-4.220-13.470-9.910l-7.980 6.190C6.510 42.620 14.620 48 24 48z"/></svg><span><b>Google-Rezensionen</b><small>5,0 von 5 bei 2 Bewertungen</small></span></a>
   <div class="cols">

diff --git a/public/angebot/index.html b/public/angebot/index.html
@@ -39,7 +39,7 @@
 <body>
 <a class="skip" href="#inhalt">Zum Inhalt springen</a>
 <header class="top"><div class="wrap top-row">
-  <a class="brand" href="/" aria-label="Pamela Zurbuchen, Startseite"><img class="brand-word" src="/img/wortmarke-120.webp?v=4" srcset="/img/wortmarke-120.webp?v=4 1x, /img/wortmarke-240.webp?v=4 2x" width="505" height="120" alt=""><img class="brand-mark" src="/img/logo-96.webp?v=3" width="96" height="96" alt=""><span class="brand-text"><b>Pamela Zurbuchen</b><small>Systemische und traumasensible Einzel- und Paartherapie</small></span></a>
+  <a class="brand" href="/" aria-label="Pamela Zurbuchen, Startseite"><img class="brand-word" src="/img/wortmarke-120.webp?v=5" srcset="/img/wortmarke-120.webp?v=5 1x, /img/wortmarke-240.webp?v=5 2x" width="577" height="120" alt=""><img class="brand-mark" src="/img/logo-96.webp?v=3" width="96" height="96" alt=""><span class="brand-text"><b>Pamela Zurbuchen</b><small>Systemische und traumasensible Einzel- und Paartherapie</small></span></a>
   <nav class="nav" aria-label="Hauptnavigation"><a href="/angebot/" aria-current="page">Angebot</a><a href="/ueber-mich/">Über mich</a><a href="/kurse/">Kurse</a><a href="/preise/">Preise</a><a href="/blog/">Blog</a><a href="/kontakt/">Kontakt</a></nav>
   <a class="btn primary sm" href="/termin/">Termin anfragen</a>
   <a class="flow-close" href="/" aria-label="Anfrage schließen und zur Startseite"><svg viewBox="0 0 20 20" aria-hidden="true"><path d="M5 5l10 10M15 5L5 15"/></svg></a>
@@ -75,7 +75,7 @@
 </div></section>
 </main>
 <footer class="foot"><div class="wrap">
-  <a class="brand" href="/" aria-label="Pamela Zurbuchen, Startseite"><img class="brand-word" src="/img/wortmarke-120.webp?v=4" srcset="/img/wortmarke-120.webp?v=4 1x, /img/wortmarke-240.webp?v=4 2x" width="505" height="120" alt=""><img class="brand-mark" src="/img/logo-96.webp?v=3" width="96" height="96" alt=""><span class="brand-text"><b>Pamela Zurbuchen</b><small>Systemische und traumasensible Einzel- und Paartherapie</small></span></a>
+  <a class="brand" href="/" aria-label="Pamela Zurbuchen, Startseite"><img class="brand-word" src="/img/wortmarke-120.webp?v=5" srcset="/img/wortmarke-120.webp?v=5 1x, /img/wortmarke-240.webp?v=5 2x" width="577" height="120" alt=""><img class="brand-mark" src="/img/logo-96.webp?v=3" width="96" height="96" alt=""><span class="brand-text"><b>Pamela Zurbuchen</b><small>Systemische und traumasensible Einzel- und Paartherapie</small></span></a>
   <p class="foot-lead">Systemische und traumasensible Begleitung für Einzelne, Paare, Eltern und Jugendliche: in Landsberg am Lech, online und als Walk and Talk.</p>
   <a class="g-badge on-deep" href="/#stimmen"><svg class="g" viewBox="0 0 48 48" aria-hidden="true"><path fill="#EA4335" d="M24 9.500c3.540 0 6.710 1.220 9.210 3.600l6.850-6.850C35.900 2.380 30.470 0 24 0 14.620 0 6.510 5.380 2.560 13.220l7.980 6.190C12.430 13.720 17.740 9.500 24 9.500z"/><path fill="#4285F4" d="M46.980 24.550c0-1.570-.15-3.090-.38-4.550H24v9.020h12.940c-.58 2.960-2.260 5.480-4.780 7.180l7.730 6c4.510-4.180 7.090-10.360 7.090-17.650z"/><path fill="#FBBC05" d="M10.530 28.590c-.48-1.450-.76-2.990-.76-4.590s.27-3.140.76-4.590l-7.980-6.190C.92 16.460 0 20.120 0 24c0 3.880.92 7.540 2.560 10.780l7.970-6.190z"/><path fill="#34A853" d="M24 48c6.480 0 11.930-2.130 15.890-5.810l-7.730-6c-2.150 1.450-4.920 2.300-8.160 2.300-6.260 0-11.570-4.220-13.470-9.910l-7.980 6.190C6.510 42.620 14.620 48 24 48z"/></svg><span><b>Google-Rezensionen</b><small>5,0 von 5 bei 2 Bewertungen</small></span></a>
   <div class="cols">
